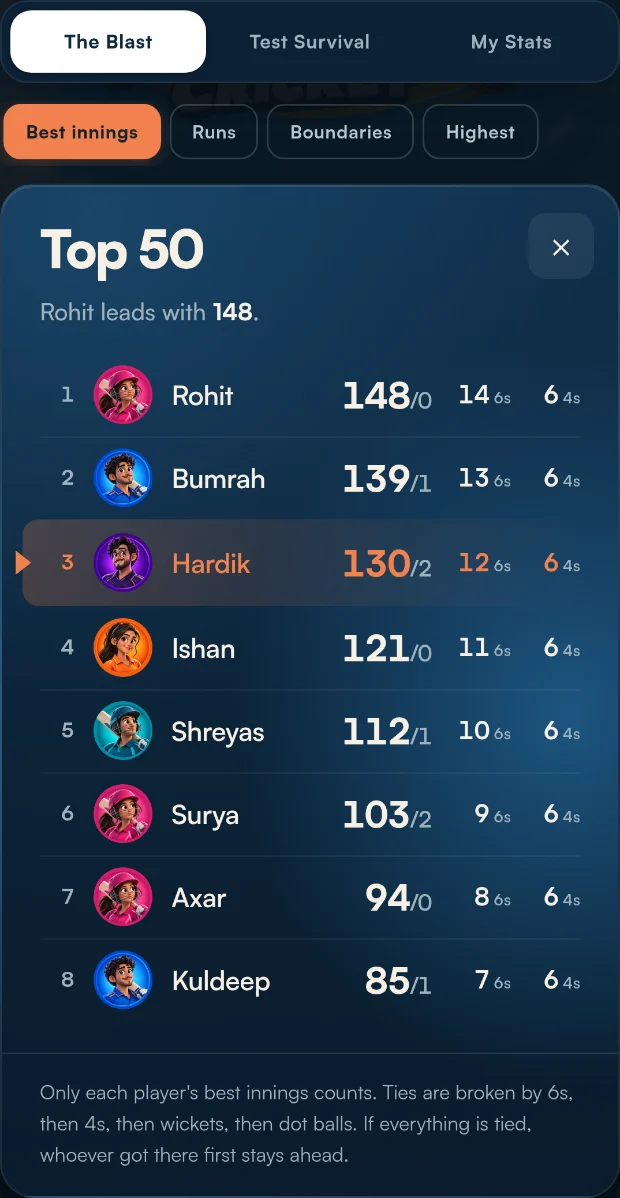
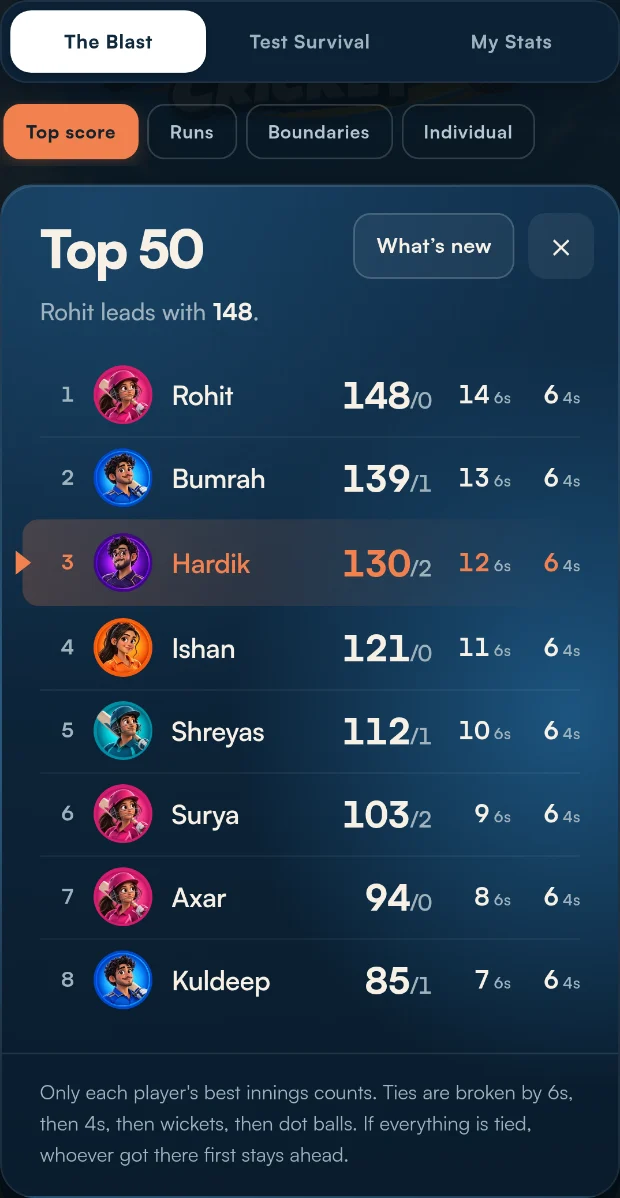
Call the board what people already call it
"Best innings" described the board accurately and conveyed nothing.
Players know it as the one where the biggest score stays on top, so it
is Top score.

That put a second problem in plain sight. The career ladder next to it
was called Highest and ranked on the innings total, which is the
question Top score already answers — and answers better, because it
holds every innings ever played rather than only the ones since careers
began. Two pills, one question, and neither of them was the thing
actually asked for: the most one *batsman* made, which is a different
number the moment a wicket falls.

So that ladder is now Individual, ranked on the best individual score
with hundreds splitting a tie. 130 for two stays 130 on Top score and
shows as 110 on Individual, which is the innings twice and correctly:
the biggest total, and the biggest knock inside one.

Art re-shot for the new names. The script now stages its pictures next
door and moves them in at the end — writing them straight into `src/`
reloaded the very page it was halfway through photographing.

Claude-Session: https://claude.ai/code/session_011FyhtfN3kyDt4tnJAqFJ8A

diff --git a/tests/career.test.ts b/tests/career.test.ts
@@ -243,17 +243,29 @@ describe('the Blast career ladders', () => {
     expect(rankCareer(board('boundaries'), sixer, at)).toBeGreaterThan(rankCareer(board('boundaries'), cutter, at));
   });
 
-  it('splits a level highest score on the best unbeaten one', () => {
-    const out = { ...emptyBlast(), highest: 140, notOut: 90 };
-    const unbeaten = { ...emptyBlast(), highest: 140, notOut: 132 };
+  it('ranks the individual board on the batsman, not on the innings', () => {
+    // The same innings total, made by two different batsmen. The board above
+    // this one already answers who made the bigger total; this one is the only
+    // place that says who made the bigger score.
+    const shared = { ...emptyBlast(), highest: 140, individual: 70 };
+    const alone = { ...emptyBlast(), highest: 130, individual: 110 };
     const at = LAUNCH_MS;
-    expect(rankCareer(board('highest'), unbeaten, at)).toBeGreaterThan(rankCareer(board('highest'), out, at));
+    expect(rankCareer(board('individual'), alone, at))
+      .toBeGreaterThan(rankCareer(board('individual'), shared, at));
+  });
+
+  it('splits a level individual best on hundreds made', () => {
+    const once = { ...emptyBlast(), individual: 132, hundreds: 1 };
+    const often = { ...emptyBlast(), individual: 132, hundreds: 4 };
+    const at = LAUNCH_MS;
+    expect(rankCareer(board('individual'), often, at))
+      .toBeGreaterThan(rankCareer(board('individual'), once, at));
   });
 
   it('keeps a player off a board they have nothing on', () => {
     expect(board('boundaries').counts(emptyBlast())).toBe(false);
     expect(board('boundaries').counts({ ...emptyBlast(), fours: 1 })).toBe(true);
-    expect(board('highest').counts({ ...emptyBlast(), innings: 4 })).toBe(false);
+    expect(board('individual').counts({ ...emptyBlast(), innings: 4 })).toBe(false);
   });
 });
 

diff --git a/src/game/career.ts b/src/game/career.ts
@@ -355,17 +355,24 @@ export const BLAST_BOARDS: readonly CareerBoard<BlastCareer>[] = [
     counts: career => career.sixes + career.fours > 0,
   },
   {
-    key: 'highest',
-    name: 'Highest',
-    blurb: 'The biggest single innings anybody has played. A level best is split on the best unbeaten one.',
-    primary: career => career.highest,
-    secondary: career => clamp(career.notOut, 0, SECONDARY_CAP),
+    // The board this one used to be ranked on the innings total, which is the
+    // question the Top score board above already answers — and answers better,
+    // because it holds every innings ever played rather than only the ones
+    // played since careers began. Two tabs for one question is one tab too
+    // many, and neither of them was the one that was actually asked for: the
+    // most one *batsman* made, which is a different number the moment a wicket
+    // falls. 130 for two can be a batsman on 110.
+    key: 'individual',
+    name: 'Individual',
+    blurb: 'The most one batsman has made. A wicket brings the next one in at nought, so this is not the same as a big total. Level scores are split on hundreds made.',
+    primary: career => career.individual ?? 0,
+    secondary: career => clamp(career.hundreds ?? 0, 0, SECONDARY_CAP),
     figures: [
-      { label: 'best', of: career => career.highest },
-      { label: 'n.o.', of: career => career.notOut },
+      { label: 'best', of: career => career.individual ?? 0 },
+      { label: '100s', of: career => career.hundreds ?? 0 },
       { label: 'inns', of: career => career.innings },
     ],
-    counts: career => career.highest > 0,
+    counts: career => (career.individual ?? 0) > 0,
   },
 ];
 

diff --git a/src/ui/CareerBoard.ts b/src/ui/CareerBoard.ts
@@ -60,7 +60,11 @@ export type LadderTab = string;
 export function laddersOf(mode: CareerMode): { key: LadderTab; name: string }[] {
   const career = mode === 'survive' ? SURVIVE_BOARDS : BLAST_BOARDS;
   return [
-    { key: 'best', name: 'Best innings' },
+    // What the board has always been called in everything but name: the biggest
+    // score anybody has put together in one innings. "Best innings" described
+    // it accurately and conveyed nothing — players already know this board as
+    // the one where the highest total stays on top.
+    { key: 'best', name: 'Top score' },
     ...career.map(board => ({ key: board.key, name: board.name })),
   ];
 }

diff --git a/src/game/whats-new.ts b/src/game/whats-new.ts
@@ -44,7 +44,7 @@ export const STORIES: readonly Story[] = [
     key: 'counts',
     eyebrow: 'ALL TIME',
     title: 'Every innings counts now',
-    body: 'Not only your best one. Runs, sixes and fours, hundreds and your highest score are added up over every innings you play — four all-time ladders under each game.',
+    body: 'Not only your best one. Runs, boundaries, hundreds and your best individual score now add up over every innings you play — four all-time ladders under each game.',
     art: ladders,
     alt: 'The all-time runs ladder, with career totals and innings played beside each name.',
   },

diff --git a/tests/career-store.test.ts b/tests/career-store.test.ts
@@ -282,7 +282,7 @@ describe('the career boards, read', () => {
     const store = fake({ Rohit: ROHIT });
     await countInnings(store, BLAST_CAREER, { ...sending(), tally: blast(60) }, LAUNCH_MS);
     const payload = await readCareerBoards(store, BLAST_CAREER);
-    expect(Object.keys(payload.boards)).toEqual(['runs', 'boundaries', 'highest']);
+    expect(Object.keys(payload.boards)).toEqual(['runs', 'boundaries', 'individual']);
     expect(payload.size).toBe(CAREER_BOARD_SIZE);
   });
 

diff --git a/tests/career-screen.test.ts b/tests/career-screen.test.ts
@@ -16,7 +16,7 @@ describe('the ladder tabs', () => {
   });
 
   it('offers each mode its own career ladders', () => {
-    expect(laddersOf('classic').map(tab => tab.key)).toEqual(['best', 'runs', 'boundaries', 'highest']);
+    expect(laddersOf('classic').map(tab => tab.key)).toEqual(['best', 'runs', 'boundaries', 'individual']);
     expect(laddersOf('survive').map(tab => tab.key)).toEqual(['best', 'balls', 'blows', 'runs', 'boundaries']);
   });
 
